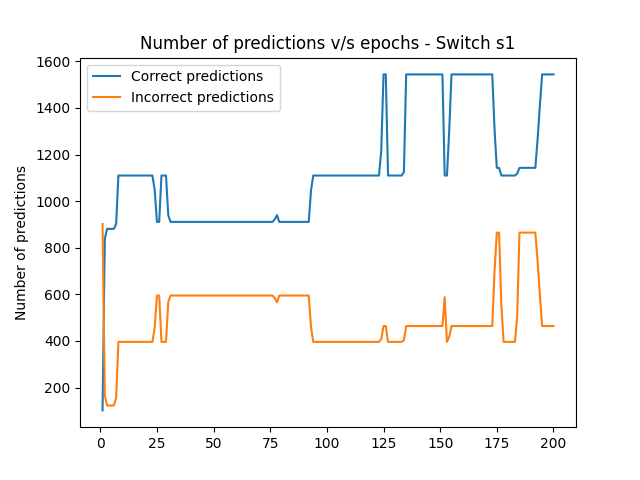
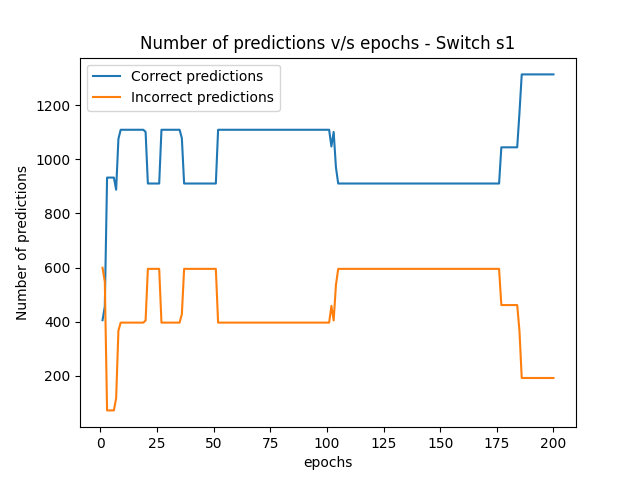
fixing graph generation and graphs.

diff --git a/main.py b/main.py
@@ -41,9 +41,9 @@ def plot_results(results, switch_name):
 
     plt.plot([i + 1 for i in range(len(correct))], correct, label='Correct predictions')
     plt.plot([i + 1 for i in range(len(incorrect))], incorrect, label='Incorrect predictions')
-    # plt.xlabel('Longitude')
+    plt.xlabel('epochs')
     plt.ylabel('Number of predictions')
-    plt.title('Number of predictions v/s epochs - Switch s1')
+    plt.title('Number of predictions v/s epochs - Switch ' + switch_name)
     plt.legend()
     plt.savefig(switch_name + '_epochs.png')
 
@@ -84,8 +84,8 @@ def main():
     print()
 
     plot_results(results1, 's1')
-    plot_results(results1, 's2')
-    plot_results(results1, 's3')
+    plot_results(results2, 's2')
+    plot_results(results3, 's3')
 
 if __name__ == '__main__':
     main()
